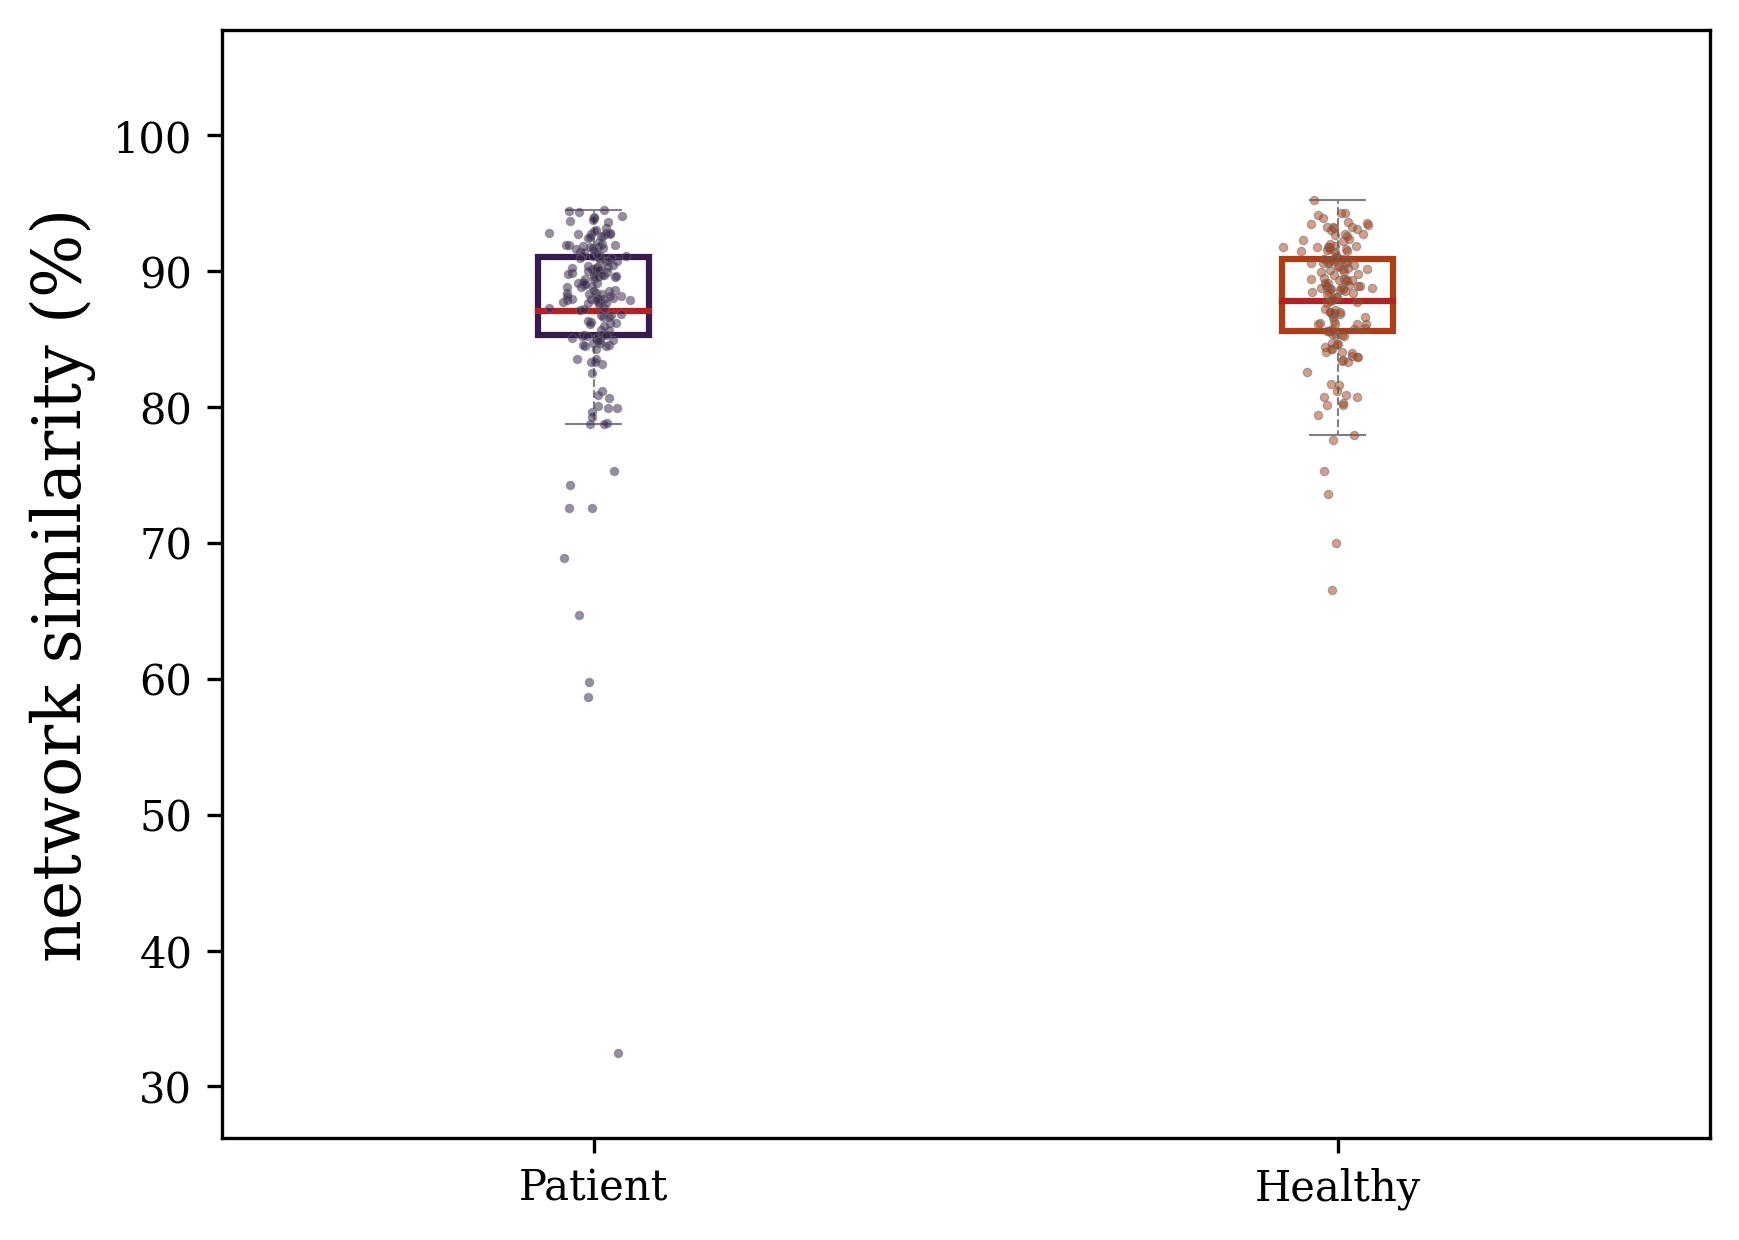
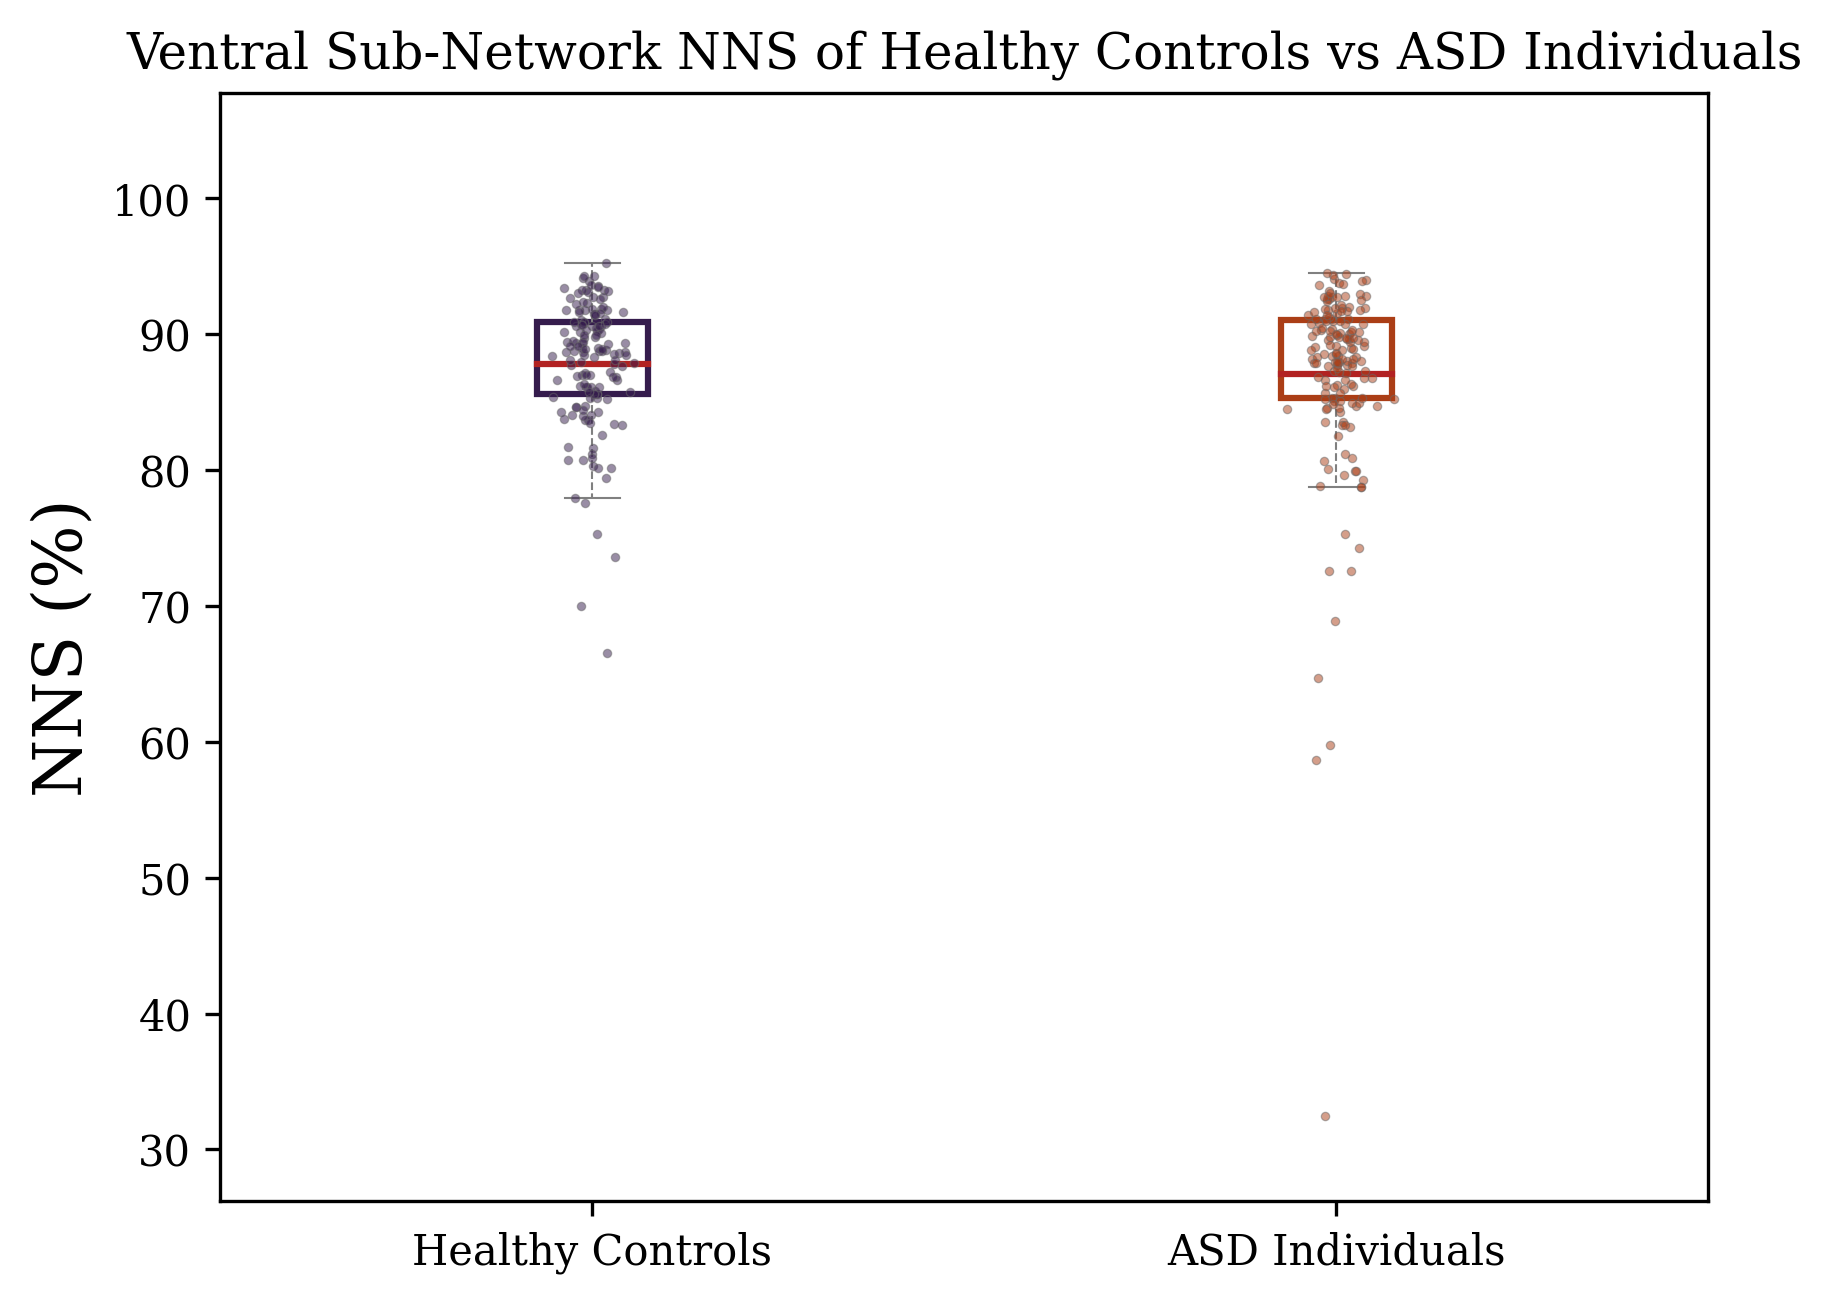
re-labelled group diffs

diff --git a/brainMatching/examples/groupwise_NAS/scripts/groupDiff_system.py b/brainMatching/examples/groupwise_NAS/scripts/groupDiff_system.py
@@ -56,6 +56,7 @@ patientGroupNames = ["ASD"]
 ##############load results of average NNS processing ###################
 systemMatchingPath = "../experiment/results/sys_level"
 sysNames = ["visual", "somatomotor", "dorsal", "ventral", "limbic", "frontoparietal", "defaultmode", "subcortical"]
+fullSysNames = ["Visual", "Somatomotor", "Dorsal", "Ventral", "Limbic", "Frontoparietal", "Default Mode", "Sub-cortical"]
 # sysNames = ["visual"]
 
 # create output folders for each system
@@ -151,13 +152,13 @@ for ind, system in enumerate(sysNames):
 
 
     data = [scores[healthy], scores[patients]][:numTimePoints]
-    dataLabels=['Healthy Controls', 'ASD Patients'][:numTimePoints]
+    dataLabels=['Healthy Controls', 'ASD Individuals'][:numTimePoints]
 
     minY=min([min(l) for l in data])
     maxY=max([max(l) for l in data])
     offset=(maxY-minY)/5.0
 
-    title = f"{sysNames[ind]} system's NNS of Healthy Controls vs ASD Patients"
+    title = f"{fullSysNames[ind]} Sub-Network NNS of Healthy Controls vs ASD Individuals"
     midLine = "mean"
     scoreName="NNS (%)"
     #generate enough empty space above and below boxes

diff --git a/brainMatching/examples/groupwise_NAS/scripts/groupDifference_similarity.py b/brainMatching/examples/groupwise_NAS/scripts/groupDifference_similarity.py
@@ -176,13 +176,13 @@ else:
 
 
 data = [scores[healthy], scores[patients]][:numTimePoints]
-dataLabels=['Healthy Controls', 'ASD Patients'][:numTimePoints]
+dataLabels=['Healthy Controls', 'ASD Individuals'][:numTimePoints]
 
 minY=min([min(l) for l in data])
 maxY=max([max(l) for l in data])
 offset=(maxY-minY)/5.0
 
-title = "Connectome-level NNS of Healthy Controls vs ASD Patients"
+title = "Connectome-level NNS of Healthy Controls vs ASD Individuals"
 midLine = "mean"
 scoreName="NNS (%)"
 #generate enough empty space above and below boxes
